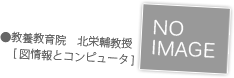
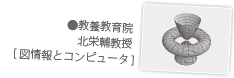
Merged revisions 4485-4497 via svnmerge from file:///ocw/svn/design-rep/ocw-design/branches/2010
........
  r4485 | alla | 2010-11-25 16:29:56 +0900 (木, 25 11月 2010) | 1 line
  
  msg header_img 差し替え
........
  r4486 | alla | 2010-11-25 17:06:43 +0900 (木, 25 11月 2010) | 1 line
  
  new icon
........
  r4487 | alla | 2010-11-25 17:08:39 +0900 (木, 25 11月 2010) | 1 line
  
  new icon
........
  r4488 | alla | 2010-11-25 17:18:24 +0900 (木, 25 11月 2010) | 1 line
  
  msg img 差し替え
........
  r4489 | alla | 2010-11-25 17:42:53 +0900 (木, 25 11月 2010) | 1 line
  
  new icon test
........
  r4490 | alla | 2010-11-25 17:45:36 +0900 (木, 25 11月 2010) | 1 line
  
  new icon test
........
  r4491 | alla | 2010-11-26 16:21:36 +0900 (金, 26 11月 2010) | 1 line
  
  t_topics
........
  r4492 | alla | 2010-11-26 17:43:11 +0900 (金, 26 11月 2010) | 1 line
  
  topics表示
........
  r4493 | alla | 2010-11-26 17:51:22 +0900 (金, 26 11月 2010) | 1 line
  
  header_topics移動
........
  r4494 | alla | 2010-11-26 17:56:56 +0900 (金, 26 11月 2010) | 1 line
  
  msg adapt deg
........
  r4495 | alla | 2010-11-26 18:03:38 +0900 (金, 26 11月 2010) | 1 line
  
  msg adapt deg
........
  r4496 | alla | 2010-11-26 18:05:46 +0900 (金, 26 11月 2010) | 1 line
  
  msg adapt deg
........
  r4497 | alla | 2010-11-26 18:06:32 +0900 (金, 26 11月 2010) | 1 line
  
  msg adapt deg
........

git-svn-id: file:///ocw/svn/design-rep/ocw-design/tags/release-2.0-4136@4500 0cb0e2da-76ef-49b7-9531-4241df5af7e9

diff --git a/css/special.css b/css/special.css
@@ -112,11 +112,11 @@
 	top: 120px;
 	left: 120px;
 	width: 410px;
-	transform: rotate(5.5deg);
-	-moz-transform: rotate(5.5deg);
-	-webkit-transform: rotate(5.5deg);
-	-o-transform: rotate(5.5deg);
-	-ms-transform: rotate(5.5deg);
+	transform: rotate(5deg);
+	-moz-transform: rotate(5deg);
+	-webkit-transform: rotate(5deg);
+	-o-transform: rotate(5deg);
+	-ms-transform: rotate(5deg);
 }
 
 #msg04 a{
@@ -166,11 +166,11 @@
 	top: 120px;
 	left: 120px;
 	width: 360px;
-	transform: rotate(2deg);
+	/*transform: rotate(2deg);
 	-moz-transform: rotate(2deg);
 	-webkit-transform: rotate(2deg);
 	-o-transform: rotate(2deg);
-	-ms-transform: rotate(2deg);
+	-ms-transform: rotate(2deg);*/
 }
 
 #msg06 a{
@@ -179,4 +179,9 @@
 	right: 55px;
 	width: 234px;
 	height: 78px;
+	transform: rotate(-4deg);
+	-moz-transform: rotate(-4deg);
+	-webkit-transform: rotate(-4deg);
+	-o-transform: rotate(-4deg);
+	-ms-transform: rotate(-4deg);
 }

diff --git a/css/2010.css b/css/2010.css
@@ -533,16 +533,17 @@ td.topics_date{
 
 .article{
 	background: none;
-}
-
-	.article a{
 		padding-left: 12px;
-		position: relative;
 		display: block;
+}
+	.article a{
+
+		position: relative;
+
 		background: none;
 	}
 	
-	.article a:hover{
+	.article:hover{
 		background-image:url(../images/common/arrow_on.png);
 		background-repeat: no-repeat;
 		background-position: 0px 3px;
@@ -671,6 +672,7 @@ td.topics_date{
 	height: 15px;
 	margin-right: 0;
 	margin-left: auto;
+	float: right;
 	display: inline;
 	vertical-align: middle;
 	vertical-align: text-bottom;
